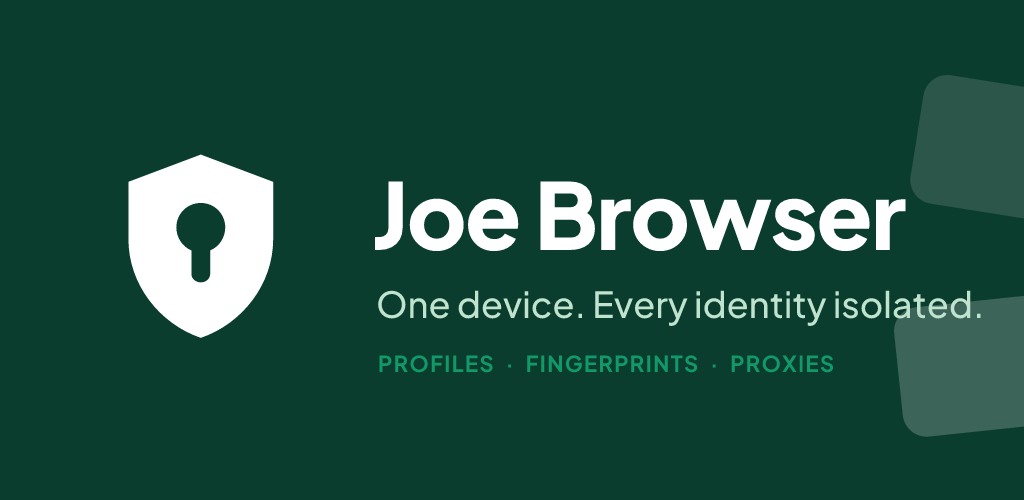
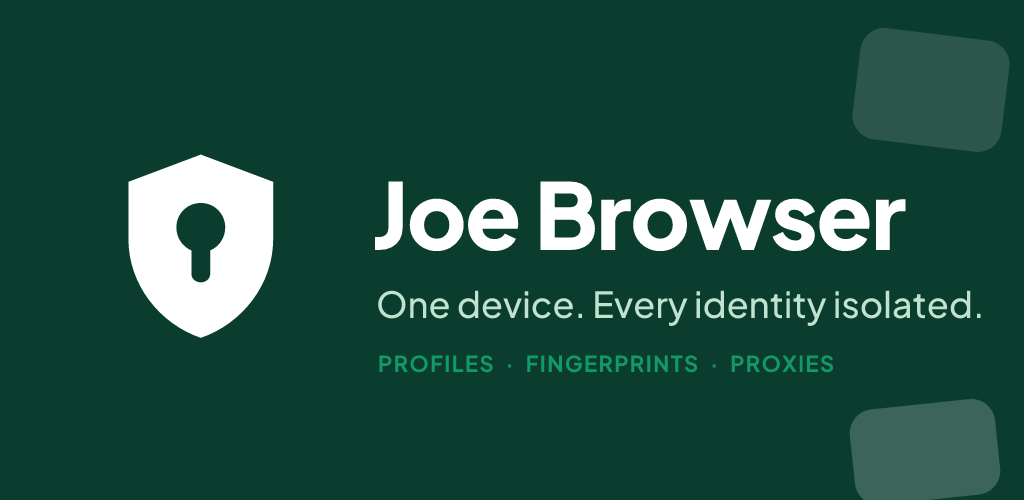
Store art: decorations inside the canvas and off the headline band, enforced by the generator

Changed region(s): [[0.8125, 0.57, 1.0, 1.0], [0.8125, 0.06, 1.0, 0.45]]

diff --git a/tools/generate-assets.js b/tools/generate-assets.js
@@ -341,6 +341,9 @@ async function generateArt() {
     fs.writeFileSync(out, png);
   };
 
+  /** Artwork defects collected while composing the feature graphic. */
+  const artProblems = [];
+
   // --- store icon 512 -------------------------------------------------------------------
   const iconSvg = (size) =>
     `<svg xmlns="http://www.w3.org/2000/svg" width="${size}" height="${size}" viewBox="0 0 512 512">` +
@@ -356,11 +359,15 @@ async function generateArt() {
     `<svg xmlns="http://www.w3.org/2000/svg" width="1024" height="500" viewBox="0 0 1024 500">` +
     `<rect width="1024" height="500" fill="${BRAND.deep}"/>` +
     // Two stacked profile cards, right-aligned: the product idea as one visual gesture.
+    // Kept fully inside the canvas — a rotated card clipping the frame edge reads as a
+    // cropping bug, not as depth.
+    // Decorations live in the top-right and bottom-right corners, clear of the text band
+    // (y≈180–390): a shape behind a headline is a legibility bug, not a design.
     `<g opacity="0.13" fill="#FFFFFF">` +
-    `<rect x="916" y="84" width="170" height="130" rx="24" transform="rotate(9 1001 149)"/>` +
+    `<rect x="856" y="34" width="150" height="112" rx="24" transform="rotate(7 931 90)"/>` +
     `</g>` +
     `<g opacity="0.20" fill="#FFFFFF">` +
-    `<rect x="898" y="300" width="180" height="130" rx="24" transform="rotate(-6 988 365)"/>` +
+    `<rect x="852" y="404" width="146" height="96" rx="24" transform="rotate(-6 925 452)"/>` +
     `</g>` +
     `<g transform="translate(88 132) scale(9.4)" stroke-linejoin="round">` +
     `<path d="${MARK.shield}" fill="#FFFFFF"/>` +
@@ -370,12 +377,38 @@ async function generateArt() {
     text('One device. Every identity isolated.', { x: 376, y: 318, size: 36, fill: '#BFE3CF', weight: '500Medium' }) +
     text('PROFILES  ·  FINGERPRINTS  ·  PROXIES', { x: 378, y: 372, size: 22, fill: BRAND.accentBright, weight: '700Bold', tracking: 0.06 }) +
     `</svg>`;
+
+  // Store artwork is checked, not eyeballed: a decoration overlapping the text band or a shape
+  // crossing the canvas edge is a defect the build should refuse, not a screenshot to squint at.
+  const FEATURE_CANVAS = { w: 1024, h: 500 };
+  const TEXT_BAND = { top: 170, bottom: 396 };
+  for (const m of feat.matchAll(/<rect x="([0-9.]+)" y="([0-9.]+)" width="([0-9.]+)" height="([0-9.]+)"[^>]*?(?:transform="rotate\((-?[0-9.]+) ([0-9.]+) ([0-9.]+)\)")?/g)) {
+    const [x, y, w, h] = [m[1], m[2], m[3], m[4]].map(Number);
+    const angle = m[5] ? Number(m[5]) : 0;
+    const cx = m[6] ? Number(m[6]) : x + w / 2;
+    const cy = m[7] ? Number(m[7]) : y + h / 2;
+    // Bounding box of the rotated rect.
+    const rad = (Math.abs(angle) * Math.PI) / 180;
+    const bw = w * Math.cos(rad) + h * Math.sin(rad);
+    const bh = w * Math.sin(rad) + h * Math.cos(rad);
+    const left = cx - bw / 2, top = cy - bh / 2, right = cx + bw / 2, bottom = cy + bh / 2;
+    if (left < 0 || top < 0 || right > FEATURE_CANVAS.w || bottom > FEATURE_CANVAS.h) {
+      artProblems.push(`feature graphic: a decoration leaves the canvas (${left.toFixed(0)},${top.toFixed(0)} → ${right.toFixed(0)},${bottom.toFixed(0)})`);
+    }
+    if (bottom > TEXT_BAND.top && top < TEXT_BAND.bottom && left < FEATURE_CANVAS.w * 0.9) {
+      artProblems.push('feature graphic: a decoration overlaps the headline band');
+    }
+  }
   render(feat, path.join(ROOT, 'store-assets/feature-graphic.png'), 1024);
 
   // --- README/docs preview (kept out of the APK) ----------------------------------------
   render(feat, path.join(ROOT, 'docs/brand-feature-graphic.png'), 1024);
   render(iconSvg(512), path.join(ROOT, 'docs/brand-icon.png'), 256);
 
+  if (artProblems.length) {
+    for (const problem of artProblems) console.error('  FAIL  ' + problem);
+    process.exit(1);
+  }
   console.log('art: store icon, feature graphic, docs previews');
 }
 
